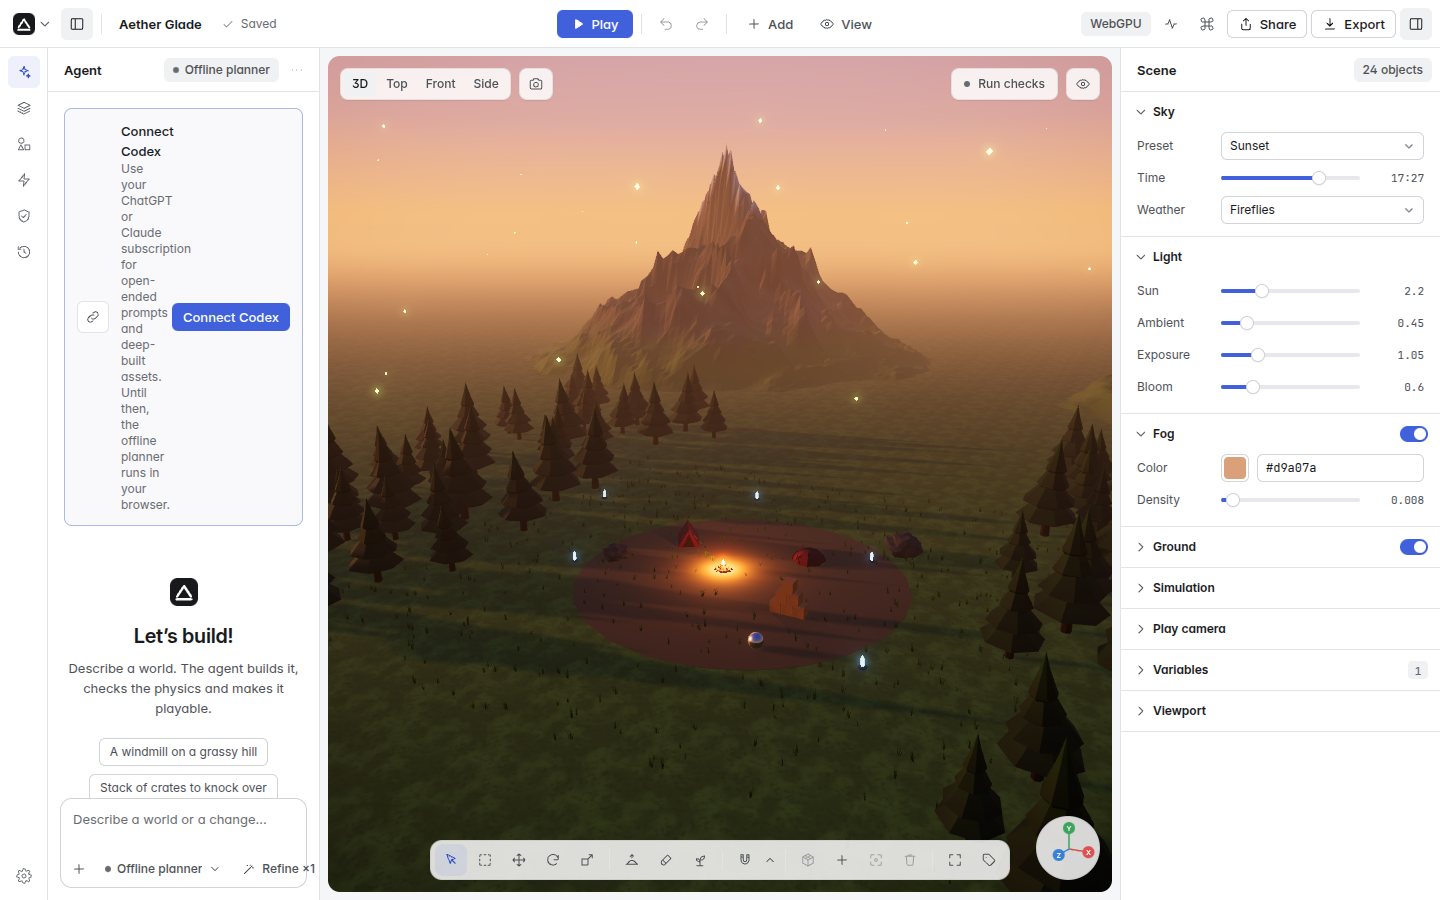
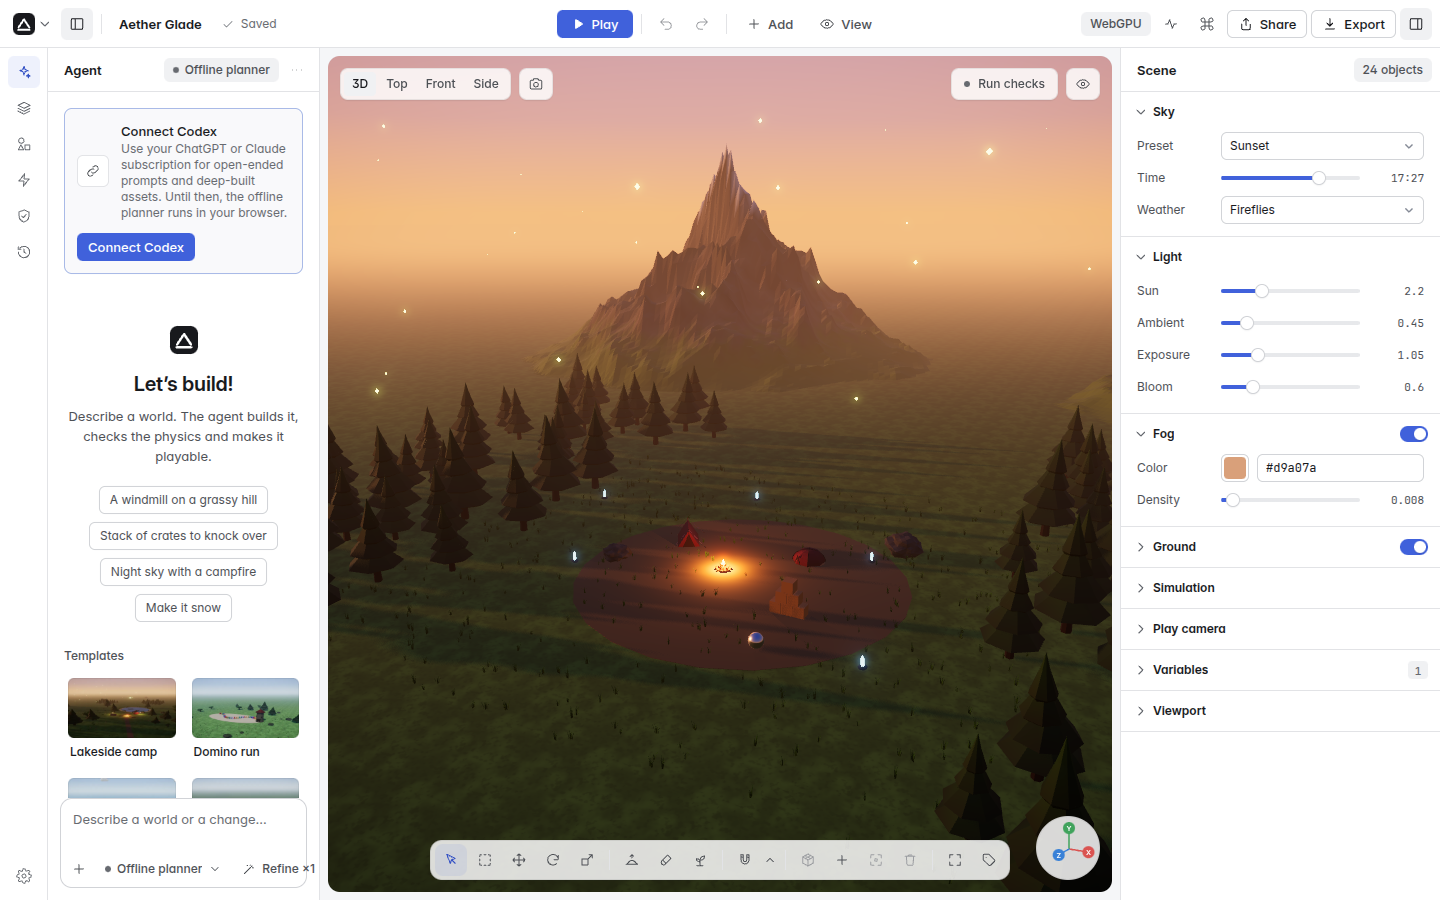
wip: checkpoint of parallel build progress (docs,README.md,render)
6 files changed.

Changed region(s): [[0.0312, 0.1244, 0.2188, 0.9022]]

diff --git a/packages/render/src/virtual/virtual-mesh.ts b/packages/render/src/virtual/virtual-mesh.ts
@@ -104,8 +104,9 @@ export class VirtualGroup {
     mesh.matrixAutoUpdate = false;
     mesh.matrix.copy(source.matrix);
     mesh.raycast = noRaycast;
-    // The cut is planned on the CPU per cluster: three's per-object culling would only add work.
-    mesh.frustumCulled = false;
+    // Keep three's per-object culling (bounding sphere = the source's): an instance outside the
+    // view or the shadow camera is not submitted at all in that pass.
+    mesh.frustumCulled = true;
     this.instances.push({ mesh, source, selected: new Uint32Array(Math.max(1, this.dag.count)), count: 0, indexCount: 0, hash: -1, last: new Float64Array(4).fill(Number.NaN) });
     return mesh;
   }

diff --git a/docs/RESEARCH_LOG.md b/docs/RESEARCH_LOG.md
@@ -80,14 +80,16 @@ carved standing stones and 10 boulders. Smoke (Node): builds and verifies
 in 1.5 s.
 
 `npm run e2e:benchmark` (1280×800, camera orbiting for 6 s). Firefox ran on
-the machine's hardware GPU (WebGL2); headless Chromium on SwiftShader:
+the machine's integrated Intel GPU (WebGL2, hardware); headless Chromium on
+SwiftShader (the hardware-GPU headless Chromium path fails here with Vulkan
+texture-allocation errors unrelated to Aether):
 
 | Browser / engine | Scene triangles | Drawn | Draws | CPU in render() | Frame p50 / p90 |
 | --- | --- | --- | --- | --- | --- |
-| Firefox WebGL2, scale engine | **236 M** (1 M pines, 60k grass, 41 sculptures) | 2.3 M (103× fewer) | 115 | 21 ms | **33 ms / 83 ms** |
+| Firefox WebGL2, scale engine | **236 M** (1 M pines, 60k grass, 41 sculptures) | 1.5 M (157× fewer) | 70 | 20–21 ms | **33 ms / 67–83 ms** |
 | Firefox WebGL2, classic (`?engine=classic`) | 27 M (instance budget dropped 90 % of the trees) | 26.4 M | 66 | 9 ms | 33 ms / 50 ms |
-| Chromium WebGPU (SwiftShader), scale | 223 M | 1.2 M (192×) | 113 | GPU-bound | 1.5 s / 3.2 s |
-| Chromium WebGL2 (SwiftShader), scale | 223 M | 0.8–1.2 M | 119 | GPU-bound | 1.5 s / 2.0 s |
+| Chromium WebGPU (SwiftShader), scale | 223 M (software budgets drop the grass) | 0.76 M (293×) | 70 | 32 ms (GPU-bound) | 1.25 s |
+| Chromium WebGL2 (SwiftShader), scale | 223 M | 0.72 M (311×) | 70 | 18 ms (GPU-bound) | 1.28 s |
 | Chromium WebGPU (SwiftShader), classic | 223 M requested | — | — | — | agent turn did not finish in 240 s (critique views of 18 M full-detail triangles) |
 
 The classic engine can only show a tenth of the forest and still draws 26 M
@@ -95,7 +97,7 @@ triangles; the scale engine shows the whole scene at the same median frame
 time. Its p90 comes from re-plan frames (every 120 ms while the camera
 moves); a static or slowly moving camera re-plans nothing.
 
-Two findings made the difference between 100 ms and 33 ms per frame in
+Three findings made the difference between 100 ms and 33 ms per frame in
 Firefox:
 
 1. **`DynamicDrawUsage` re-uploads every draw.** three's `Attributes.update`
@@ -110,6 +112,11 @@ Firefox:
    culling, so 18 colossal heads walked their whole hierarchy every 120 ms.
    A caster now keeps its cut while the camera moved < 1.5 % of its
    distance or while it is more than three radii outside the view.
+3. **Per-object culling still matters.** Virtual meshes first disabled
+   three's frustum culling ("the cut is planned per cluster"), so every
+   sculpture was submitted in the main and the shadow pass even when off
+   screen: 116 draws per frame instead of 70. With culling on (the bounding
+   sphere is the source mesh's), drawn triangles fell from 2.3 M to 1.5 M.
 
 Other measured checks: GPU objects stay flat over showcase rebuilds
 (`--cycles=2`: 66 GPU geometries vs a 68 baseline, 28 textures, 22 cached

diff --git a/docs/REVIEW_LOG.md b/docs/REVIEW_LOG.md
@@ -925,8 +925,25 @@ and scatter was already instanced, so no impostor LOD was added.
 - First frame: unchanged path for ordinary worlds (fields/virtual mount
   only for ≥ 2 000 instances / ≥ 20k triangles); built-ins now generate in
   the worker, so heavy generators no longer block it.
-- Firefox/WebGL2 measured (hardware GPU): showcase p50 33 ms, p90 83 ms
-  while orbiting, 236 M scene triangles → 2.3 M drawn; Chromium on
-  SwiftShader is GPU-bound at ~1.5 s per frame for the same scene (software
+- Firefox/WebGL2 measured (integrated Intel GPU): showcase p50 33 ms,
+  p90 67–83 ms while orbiting, 236 M scene triangles → 1.5 M drawn, 70
+  draws (the classic engine: 33 ms for 27 M triangles, a tenth of the
+  forest); Chromium on
+  SwiftShader is GPU-bound at ~1.3 s per frame for the same scene (software
   rasterizer), with software-tier budgets lowered to 300k field / 250k
   virtual triangles.
+
+**Gates** (this stage, final runs): `tsc -p tsconfig.json --noEmit` 0
+errors; Vitest 1 640 tests in 118 files passing; studio build OK;
+`npm run smoke` 14/14 (the showcase template is now part of the set);
+`npm run e2e` passed in Chromium WebGPU, Chromium WebGL2 and Firefox
+WebGL2; `e2e:layout` and `e2e:projects` pass in Chromium and Firefox.
+Two earlier `npm run e2e` attempts failed on timing checks while another
+process on the machine used a full core (a 646 ms long task during "Run
+checks" on WebGL2, and a verification run not observed by the probe on a
+fast world); neither reproduced on the next run. Fixed on the way:
+the projects e2e counted 8 templates (now reads the template list), the
+tool dock overflowed into the axis gizmo at 1024–1366 px and off screen on
+phones (it now scrolls within its column), and the connect card's text
+shrank below a word's width in the landscape-phone agent panel (it wraps
+onto its own row).

diff --git a/README.md b/README.md
@@ -104,9 +104,9 @@ explicit state, so the AI can be held to account:
   layer) into spatial chunks with automatic LOD meshes, culled per chunk and
   spent against a per-GPU triangle budget, far chunks first. The built-in
   showcase — "a canyon with a million trees and ancient statues", also a
-  template — holds 236 M triangles and draws about 2.3 M (≈ 100× fewer),
-  at the same median frame time (33 ms in Firefox) as the full-detail
-  renderer needs for a tenth of that forest; the viewport shows both
+  template — holds 236 M triangles and draws about 1.5 M (≈ 157× fewer),
+  at the same median frame time (33 ms in Firefox on an integrated GPU) as
+  the full-detail renderer needs for a tenth of that forest; the viewport shows both
   numbers, and the camera button flies through any world. Vegetation fields sway in a procedural wind, and the post
   pass applies a colour grade derived from the sky (split tone, saturation,
   contrast). Research notes and numbers: [`docs/RESEARCH_LOG.md`](docs/RESEARCH_LOG.md),
